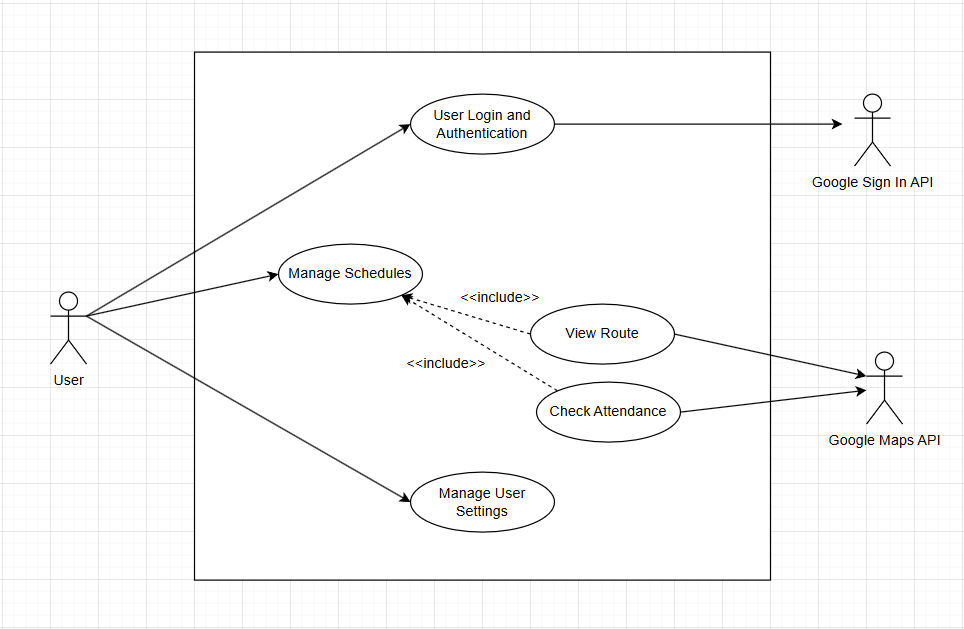
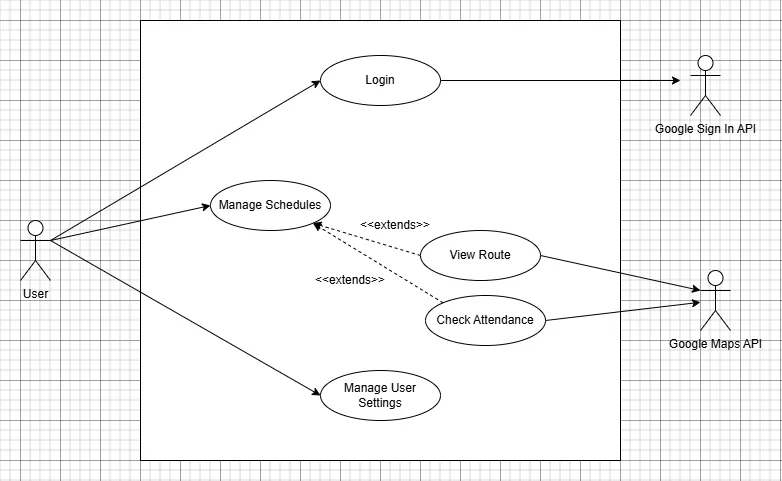
change log main changes

diff --git a/documentation/M3_Requirements_and_Design.md b/documentation/M3_Requirements_and_Design.md
@@ -1,7 +1,22 @@
 # M3 - Requirements and Design
 
 ## 1. Change History
-<!-- Leave blank for M3 -->
+1. Updated section 3.1, on February 28. 
+    - Updated the Use-Case Diagram to use verbs in accordance with M3 feedback.
+    - Changed includes to extends to accurately depict relationships.
+2. Updated section 3.3, 2, on February 28.
+    - Removed create schedule use case since this is now done automatically upon account creation.
+    - Added language to describe Fall, Winter, Summer schedule format.
+    - Changed **import** to **upload** and **delete** to **clear** to accurately depict actions.
+    - Changed **csv** to **xlsx** since Workday no longer allows csv download.
+    - Removed failure scenario for clear schedule in accordance with M3 feedback.
+3. Updated section 3.3, 3, on February 28.
+    - Removed attendance checking as that is a separate feature.
+4. Updated section 3.5, 3, on February 28.
+    - Added further justification to NFRs 1 and 2 in accordance with M3 feedback.
+    - Removed NFR 3 as it was extraneous and not justifiable.
+5. Updated section 4, on February 28.
+    - Changed **username** to **sub** (subject) in many places as this is the unique identifier provided by Google Authentication that we are using to identify user data in our data bases.
 
 ## 2. Project Description
 Get2Class is a gamified calendar to help students get to class on time. The main target audience for this app will be UBC students and professors. The main problem we are trying to solve is simplifying the Workday Student calendar as it is unintuitive and difficult to use. We will make it easy to set up your calendar using data from Workday. It can be difficult, especially for first-year’s, to find your classes using the building acronym on Workday. We will provide maps and walking routes. Additionally, we want to help motivate students to be punctual and attend their classes. Our application aims to solve this by implementing a notification and points system that helps and motivates users to go to classes and provides best routes to reach their next class.
@@ -46,41 +61,23 @@ Get2Class is a gamified calendar to help students get to class on time. The main
     
 2. **Manage Schedules**
     - **Overview**:
-        1. Create Schedule: The system must allow the user to generate a blank schedule
-        2. Import Schedule: The system must allow the user to import their schedule from Workday as a csv file
-        3. View Schedule: The system must allow the user to view their schedule in a clear and understandable format
-        4. Delete Schedule: The system must allow the user to delete an existing schedule
+        1. Upload Schedule: The system must allow the user to upload their schedule from Workday as an xlsx file
+        2. View Schedule: The system must allow the user to view their schedule in a clear and understandable format
+        3. Clear Schedule: The system must allow the user to clear an existing schedule
     - **Detailed Flow for Each Independent Scenario**:
-        1. **Create Schedule**<a name="fr2_1"></a>:
-            - **Description**: The user can create a blank schedule with a name
+        1. **Upload Schedule**<a name="fr2_2"></a>:
+            - **Description**: The user can upload their own schedule from Workday as a xlsx file to one of their three schedules: Fall, Winter, and Summer
             - **Primary actor(s)**: User
             - **Main success scenario**:
-                1. The user clicks on the Add Schedule button
-                2. The app prompts the user to enter a name for the new schedule
-                3. Once the user enters the name, they will hit the Create button, the newly created schedule shows up on the screen
+                1. The user chooses which schedule they want to set
+                2. The user will then click on the Upload Schedule button
+                3. A popup or page reroute will occur requesting the user to upload a (valid) .xlsx file (from Workday)
+                4. Once the user successfully uploads an .xlsx file of their schedule, the blank schedule will become populated with the users uploaded schedule 
             - **Failure scenario(s)**:
-                - 2a. The user enters an empty string for the schedule name
-                    - 2a1. An error message is displayed telling the user that the schedule name cannot be empty
-                    - 2a2. The app prompts the user to enter a valid name again
-                - 2b. The user enters a schedule name that conflicts with an already existing schedule name
-                    - 2b1. An error message is displayed telling the user that the name has been used previously
-                    - 2b2. The app prompts the user to enter a new name
-                - 2c. The user enters illegal characters into the schedule name
-                    - 2c1. An error message is displayed telling the user that the schedule name does not meet the criteria of the schedule naming convention
-                    - 2c2. The app prompts the user to enter a valid schedule name
-        2. **Import Schedule**<a name="fr2_2"></a>:
-            - **Description**: The user can import their own schedule from Workday as a csv file onto a blank existing schedule the user has created
-            - **Primary actor(s)**: User
-            - **Main success scenario**:
-                1. The user clicks on an already existing blank schedule they have created
-                2. The user will then click on the Import Schedule button
-                3. A popup or page reroute will occur requesting the user to upload a (valid) .csv file (from Workday)
-                4. Once the user successfully uploads a .csv file of their schedule, the blank schedule will become populated with the users imported schedule 
-            - **Failure scenario(s)**:
-                - 3a. The user uploads a non-valid or non .csv file
+                - 3a. The user uploads a non-valid or non .xlsx file
                     - 3a1. An error message is displayed telling the user that the uploaded file is not valid
-                    - 3a2. The app will prompt the user to import a valid schedule again
-        3. **View Schedule**<a name="fr2_3"></a>:
+                    - 3a2. The app will prompt the user to upload a valid schedule again
+        2. **View Schedule**<a name="fr2_3"></a>:
             - **Description**: The user can view their schedules and a particular schedule
             - **Primary actor(s)**: User
             - **Main success scenario**:
@@ -88,17 +85,15 @@ Get2Class is a gamified calendar to help students get to class on time. The main
                 2. The app opens up the schedule for the user to view
             - **Failure scenario(s)**:
                 - N/A
-        4. **Delete Schedule**<a name="fr2_4"></a>:
-            - **Description**: The user can delete their existing schedules
+        3. **Clear Schedule**<a name="fr2_4"></a>:
+            - **Description**: The user can clear their existing schedules
             - **Primary actor(s)**: User
             - **Main success scenario**:
-                1. The user selects (e.g. swipe or long press on) one schedule
+                1. The user selects one schedule (Fall, Winter, or Summer)
                 2. The app pops up a warning message for deleting the selected schedule
-                3. If the user hits Confirm, the app deletes the schedule and the warning is dismissed
+                3. If the user hits Confirm, the app clears the schedule and the warning is dismissed
             - **Failure scenario(s)**:
-                - 3a. The user hits Cancel or elsewhere
-                    - 3a1. The warning message is dismissed
-                    - 3a2. The app routes the user back to the original screen and does not delete the schedule
+                - N/A
 
 3. **View Map/Route**
     - **Overview**:
@@ -111,7 +106,6 @@ Get2Class is a gamified calendar to help students get to class on time. The main
                 1. The user clicks on View Route
                 2. The app prompts the user to grant location permissions if not already granted
                 3. The user sees their current location and destination location together with the optimal route on the screen
-                4. When the user arrives (or their next class happens at their current location), the user gains or loses points (karma) based on their punctuality
             - **Failure scenario(s)**:
                 - 2a. The user does not grant location permissions
                     - 2a1. The app prompts the user for permissions again with rationale
@@ -170,14 +164,11 @@ N/A
 ### **3.5. Non-Functional Requirements**
 
 1. **Schedule Usability** <a name="nfr1"></a>
-    - **Description**: All schedules operations (create, import, view, delete) should be processed and reflected on the screen within 3 seconds of the user action
-    - **Justification**: Quick schedule display avoids user dissatisfaction and saves time for busy professors and students to check the time and location for their upcoming classes
+    - **Description**: All schedules operations (upload, view, clear) should be processed and reflected on the screen within 3 seconds of the user action
+    - **Justification**: Quick schedule display avoids user dissatisfaction and saves time for busy professors and students to check the time and location for their upcoming classes. According to https://think.storage.googleapis.com/docs/mobile-page-speed-new-industry-benchmarks.pdf, as page load time goes from 1s to 3s, the probability of bounce increases 32%.
 2. **Location Accuracy** <a name="nfr2"></a>
     - **Description**: The user's location should be track within a radius of 50 meters from the actual location
-    - **Justification**: Accurate location tracking helps provide the optimal route, which is important for professors and students to get to class on time. This also ensures fairness for awarding and deducting points (karma)
-2. **Route Accessibility** <a name="nfr3"></a>
-    - **Description**: When logged in, the user can obtain the optimal route to their next class in at most five clicks
-    - **Justification**: Quick route access ensures students and professors get route suggestions with minimal effort and avoids user dissatisfaction. This also help the user to get to class on time
+    - **Justification**: Accurate location tracking helps provide the optimal route, which is important for professors and students to get to class on time. This also ensures fairness for awarding and deducting points (karma). Our testing found that inside buildings on campus you can be up to 50m away from the building's google maps location, so we need precise location data to keep the valid radius small.
 
 
 ## 4. Designs Specification
@@ -193,29 +184,29 @@ N/A
             - **Purpose**: Creates a blank schedule with a given name
         4. void removeSchedule(String id)
             - **Purpose**: Removes a schedule with a given id
-        5. void importSchedule(File csvFile, String id)
-            - **Purpose**: Import a Workday schedule as a csv file onto a newly created blank schedule by the user
+        5. void importSchedule(File xlsxFile, String id)
+            - **Purpose**: Import a Workday schedule as a xlsx file onto a newly created blank schedule by the user
 2. **Attendance**
     - **Purpose**: Manages the attendance of a user and synchronizes communication between schedule data and Google Maps API data
     - **Interfaces**:
-        1. String checkAttendance(String username, List\<double> userCoordinates, double userTime, String id)
-            - **Purpose**: Checks if the user is in class based on the username, user current location, the current time of the class, and the schedule ID that the user is interacting with
-        2. void resetAttendance(String username, String id)
+        1. String checkAttendance(String sub, List\<double> userCoordinates, double userTime, String id)
+            - **Purpose**: Checks if the user is in class based on the sub, user current location, the current time of the class, and the schedule ID that the user is interacting with
+        2. void resetAttendance(String sub, String id)
             - **Purpose**: Resets the attendance of all the classes the user has attended so they can recheck in for the next day and calculates the karma to decrease based on number of missed classes for a particular user
 3. **User**
-    - **Purpose**: Manages the user settings and provides communication to user database/collection which stores the username, points (karma), and settings of a particular user
+    - **Purpose**: Manages the user settings and provides communication to user database/collection which stores the username, sub, points (karma), and settings of a particular user
     - **Interfaces**:
         1. void createNewUser()
             - **Purpose**: Creates a new user entry into the database if a newly logged in user does not exist in the database
-        2. String findExistingUser(String username)
+        2. String findExistingUser(String sub)
             - **Purpose**: Checks if a logged in user exists in the database already
-        3. int getKarma(String username)
+        3. int getKarma(String sub)
             - **Purpose**: Fetches the points (karma) of a given user
-        4. void updateKarma(String username, int karma)
+        4. void updateKarma(String sub, int karma)
             - **Purpose**: This increases or decreases the points (karma) of a user based on the location and time
-        5. List\<NotificationSetting> getNotificationSettings(String username)
+        5. List\<NotificationSetting> getNotificationSettings(String sub)
             - **Purpose**: Retrieves all notification settings of a specific user
-        6. void updateSettings(String username, bool toggleNotification, int remindInMins)
+        6. void updateSettings(String sub, bool toggleNotification, int remindInMins)
             - **Purpose**: Updates the settings of a particular user (e.g. turning "On"/"Off" notifications and setting how much time before a class a user wants to be notified)
 4. **Additional Component (not back end related) For Reference: Front End**
     - **Purpose**: Manages front end interactions with all other back end components of the app
@@ -233,7 +224,7 @@ N/A
 1. **Schedule**
     - **Purpose**: Stores the schedules of a user along with each of the schedule's classes
 2. **User**
-    - **Purpose**: Stores all user information (e.g. username, points (karma), and settings)
+    - **Purpose**: Stores all user information (e.g. username, sub, points (karma), and settings)
 
 ### **4.3. External Modules**
 1. **Google Sign In API** 
@@ -294,8 +285,6 @@ N/A
     - **Validation**: We can set up a stopwatch and time how long each operation on the schedule takes. Then we check if the response time is less than 3 seconds.
 2. [**Location Accuracy**](#nfr2)
     - **Validation**: We can open the app and check the attendance at different distance (e.g. 50m, 80m, 120m, 150m etc.) away from the location of the next class. Then by checking the attendance and Karma points, we know the location accuracy
-3. [**Route Accessibility**](#nfr3)
-    - **Validation**: We log in to our app and navigate to an arbitrary screen. Then we can test if we can get the route suggestions in 5 clicks or fewer
 
 
 ### **4.8. Main Project Complexity Design**
@@ -303,7 +292,7 @@ N/A
 - **Description**: Check whether a user is in the correct class location at the correct time and manages the karma score of the user accordingly.
 - **Why complex?**: This is complex because we have to synchronize all back end components of the app along with the front end Google Maps API. We must utilize the location of the user, the location of the classroom, the time the class starts (obtained from the Schedule DB), the time of the user, and adjust the karma score to give to the user based on several cases.
 - **Design**:
-    - **Input**: The client's username, the client's current location as GPS coordinates, the client's current time, and the schedule ID the user is interacting with. 
+    - **Input**: The client's sub, the client's current location as GPS coordinates, the client's current time, and the schedule ID the user is interacting with. 
     - **Output**: A message will be provided back to the front end for the client. The back end will update the karma based on the conditions.
     - **Main computational logic**:
         - Determining the class which the user is checking into: If a class is currently taking place or starting in less than 10 minutes, we will select this as the class that the user wants to check into. Otherwise, we will select whichever class is closest in time.
@@ -317,7 +306,7 @@ N/A
         - Class attendance will reset at the end of every day
     - **Pseudo-code**:
         ```
-        String checkAttendance(username, userCoordinates, userTime, id):
+        String checkAttendance(sub, userCoordinates, userTime, id):
             Class currClass = null
             Schedule s = Schedule.getSpecificSchedule(id)
             
@@ -355,10 +344,10 @@ N/A
                 int lateness = userTime - currClass.start
                 int classLength = currClass.end - currClass.start
                 int karma = 10 * (1 - lateness/classLength)
-                User.updateKarma(username, karma)
+                User.updateKarma(sub, karma)
                 return "You were late to class!"
             else:
-                User.updateKarma(username, 15)
+                User.updateKarma(sub, 15)
                 return "Welcome to class!"
         ```
 
